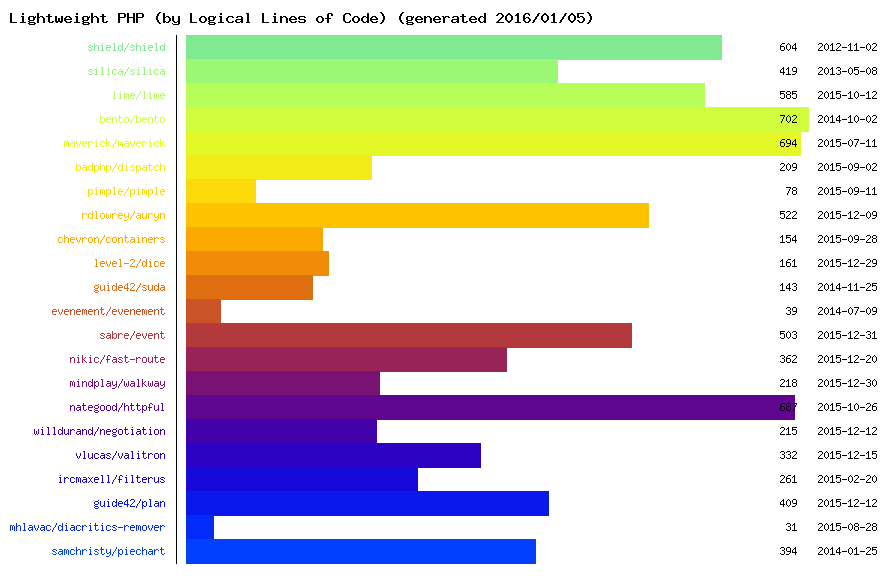
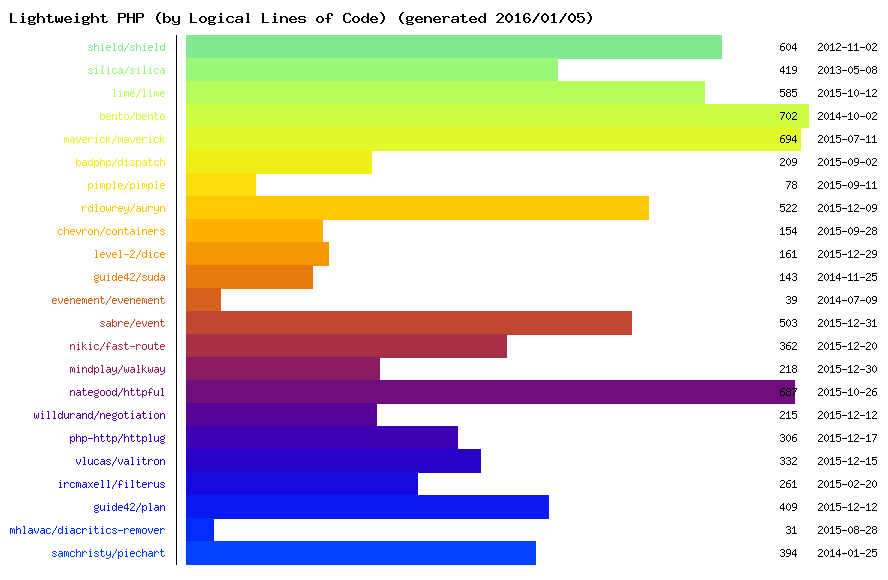
HTTPlug

diff --git a/README.md b/README.md
@@ -45,6 +45,7 @@ List of lightweight PHP libraries.
 
 * [Httpful](https://github.com/nategood/httpful) - A chainable, REST friendly, PHP HTTP client
 * [Negotiation](https://github.com/willdurand/Negotiation) - Content negotiation tools for PHP
+* [HTTPlug](https://github.com/php-http/httplug) - HTTP client abstraction for PHP
 
 ## Validation and Filtering
 
